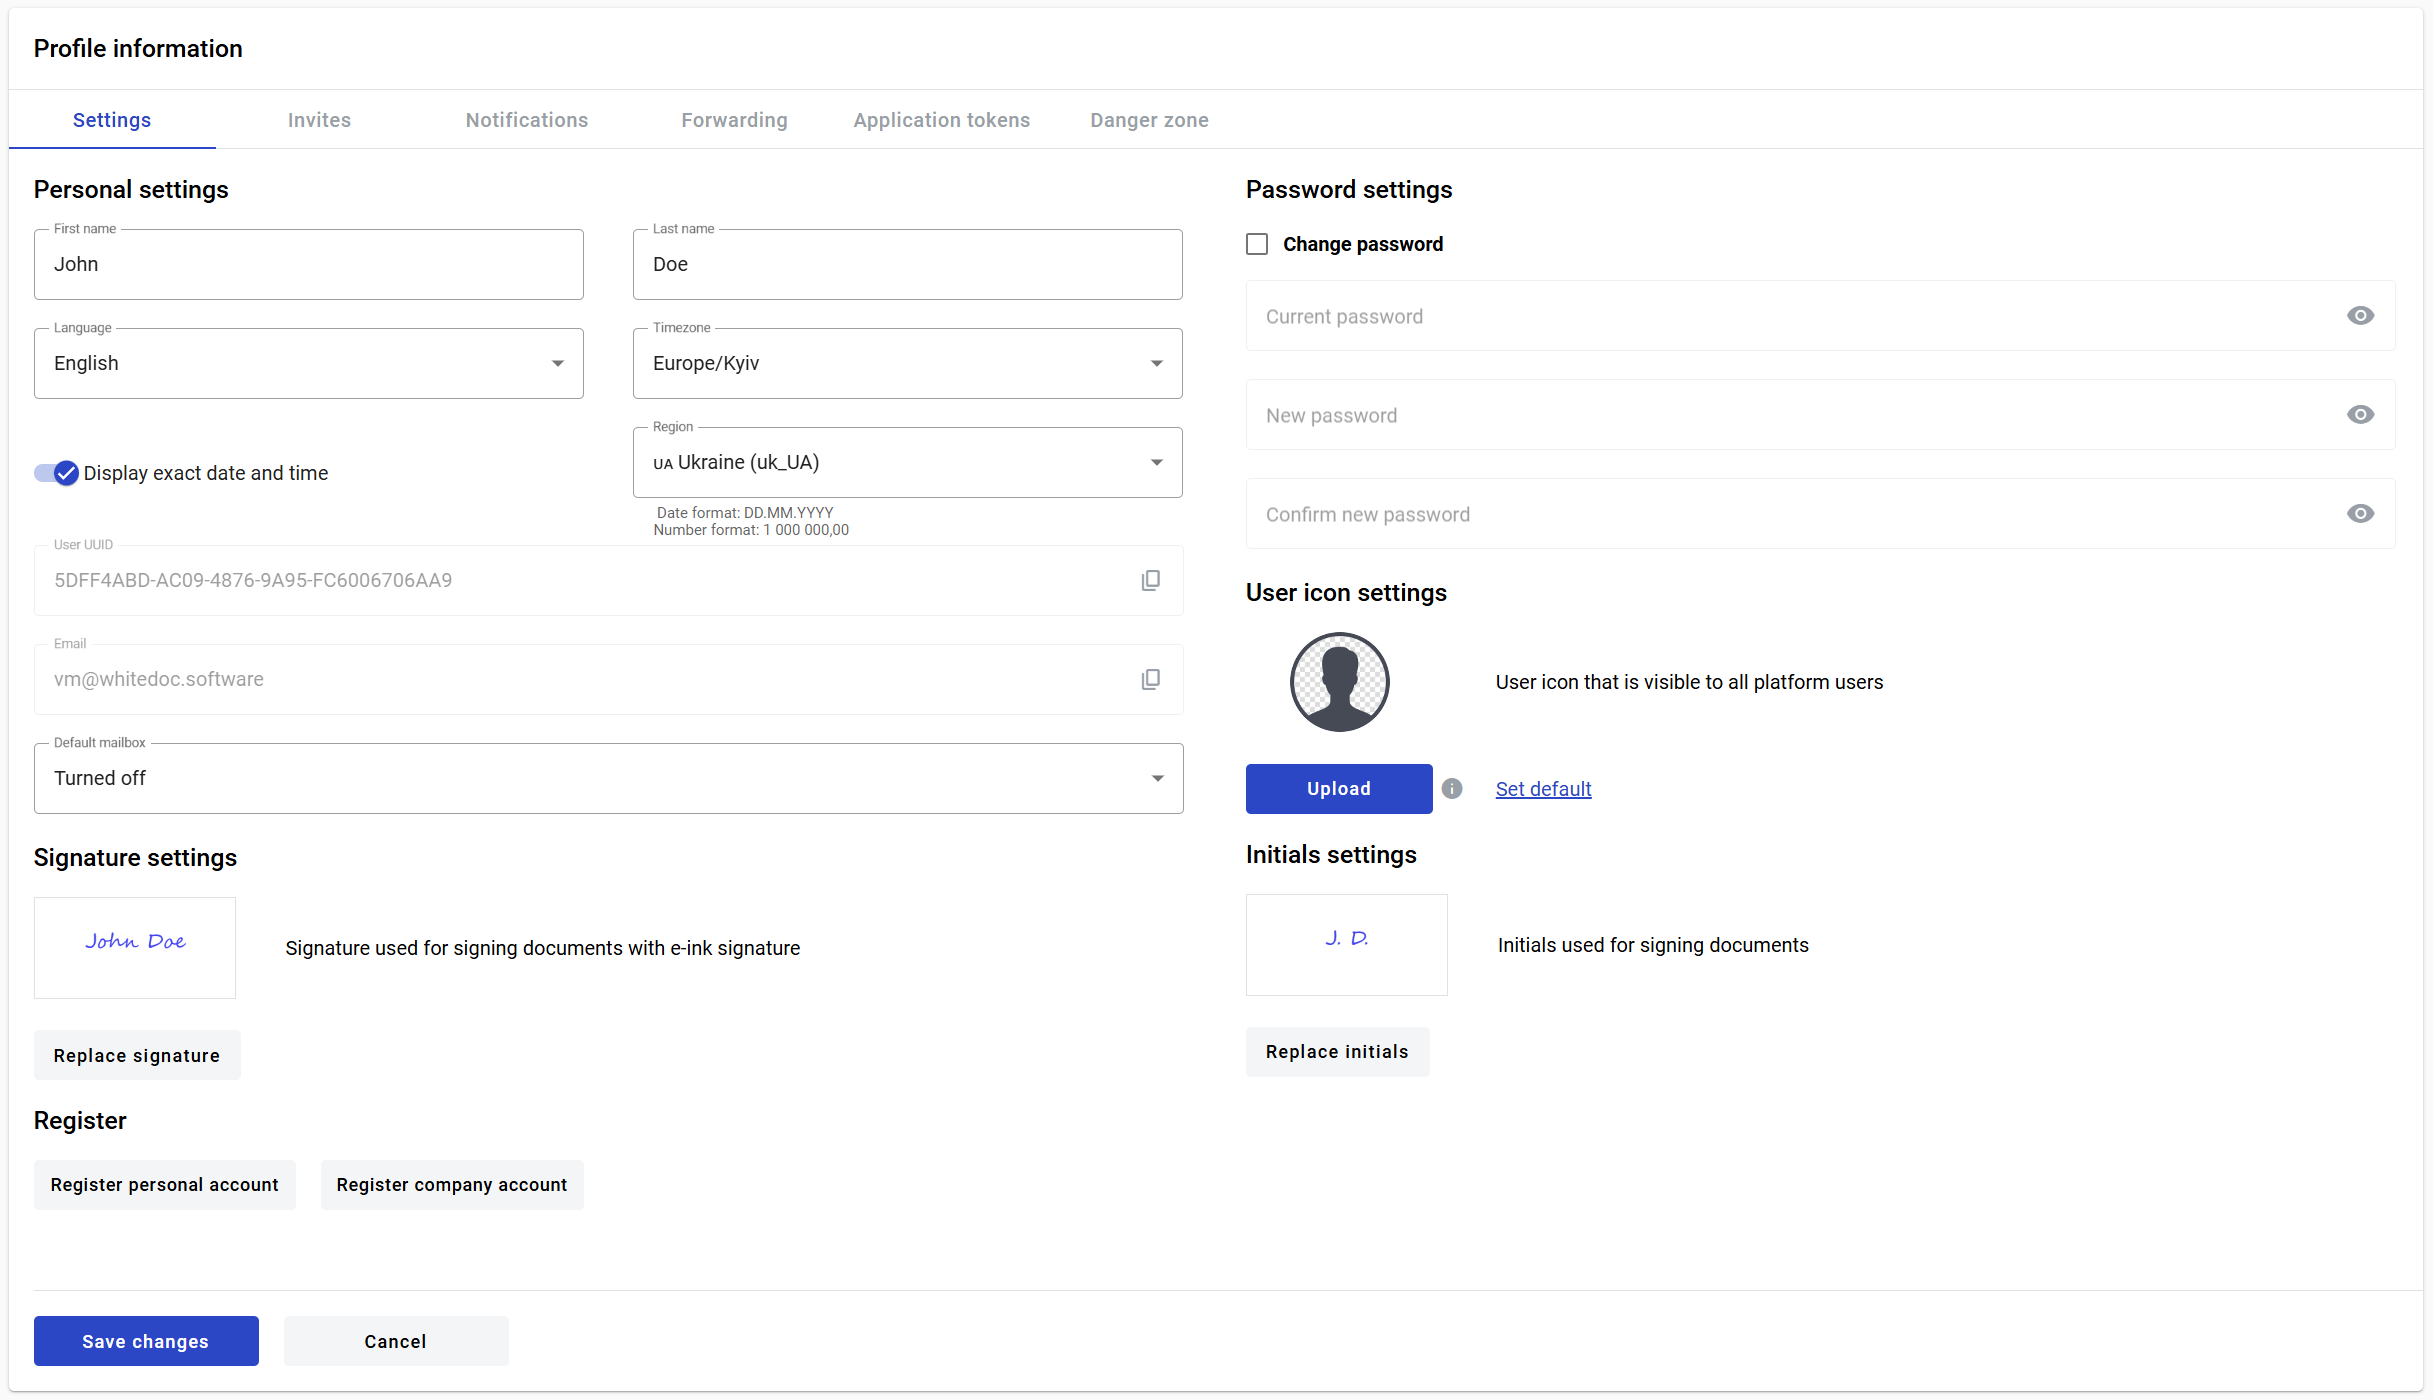
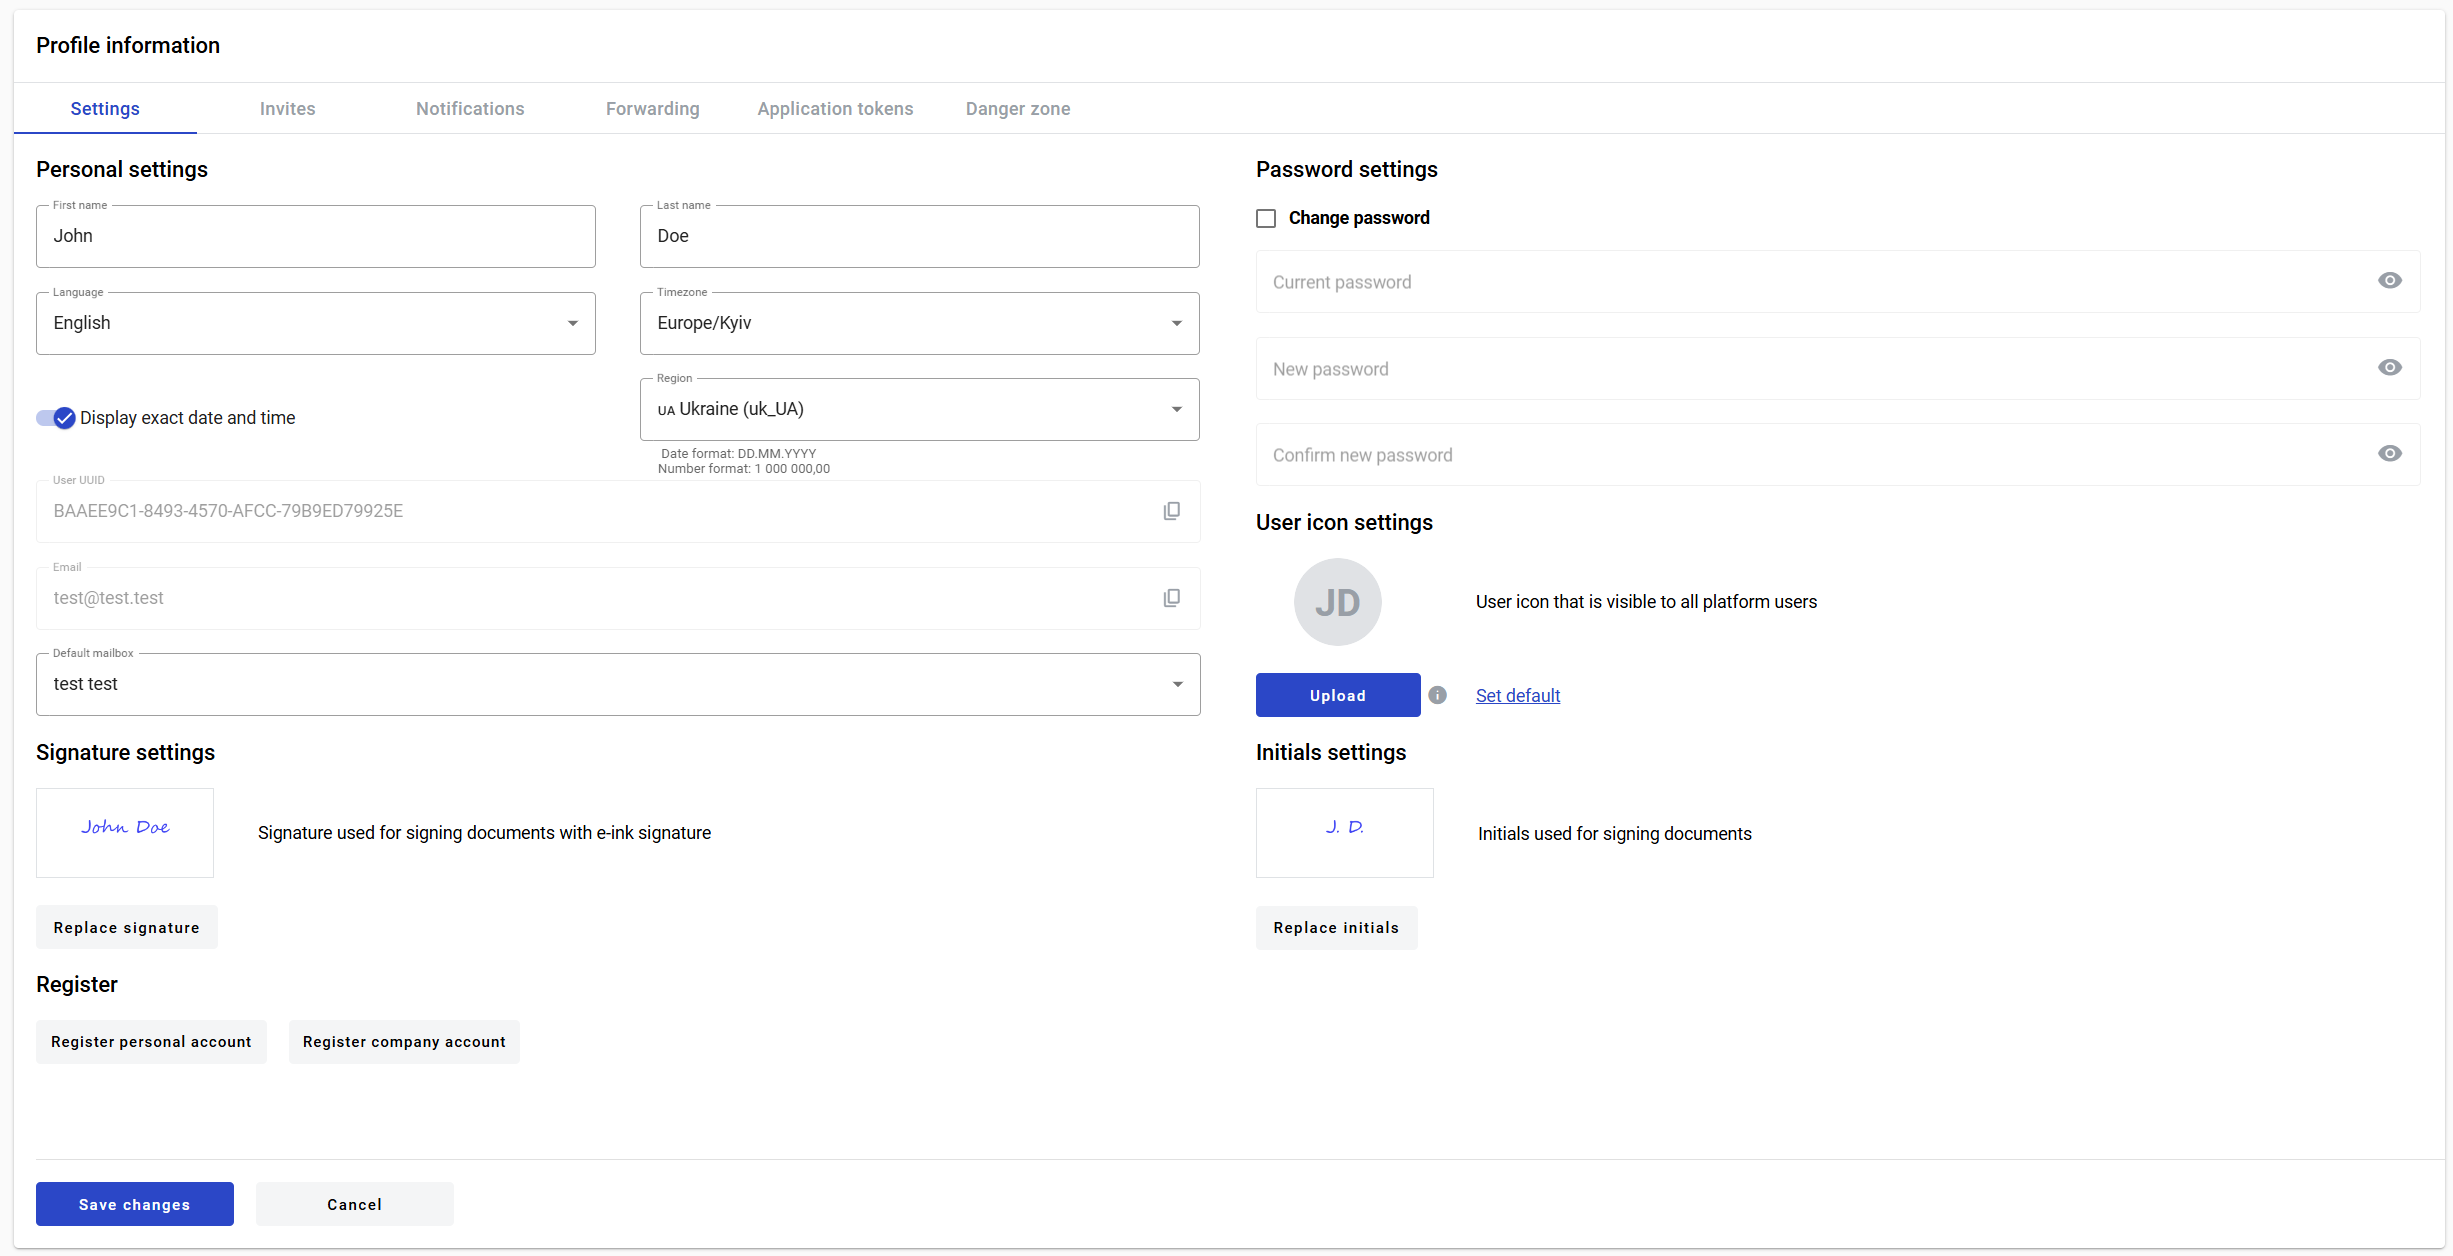
Invite tab info + profile settings upds and fixes (#283)

diff --git a/docs/source/pages/howToWorkWithPlatform/mainApplication/userProfile/userProfile.rst b/docs/source/pages/howToWorkWithPlatform/mainApplication/userProfile/userProfile.rst
@@ -8,6 +8,8 @@ This page allows you to edit various settings of your user profile. To open user
 Settings page
 =============
 
+This tab contains general user profile details and info.
+
 .. image:: pic_userprofile/tabSettings.png
    :width: 900
    :align: center
@@ -26,29 +28,43 @@ Settings page
 12. Register personal account
 13. Register company account
 
-Do not forget to click on Save changes button after editing anything on this page
+Do not forget to click the "Save changes" button after editing anything on this page.
 
-How to creating an e-ink signature?
-===================================
+How to create your signature?
+=============================
 
 1. Go to user profile page
-2. Click on Replace signature button
+2. Click the "Add signature" button (or "Replace signature" if you wish to change already existing signature)
 
 .. image:: pic_userprofile/signatureModal.png
    :width: 600
    :align: center
 
-3. Draw your signature in opened window
-4. Alternatively, text can be used as signature
-5. Click on Save changes button on the account setting page
+3. Draw your signature in the opened window
+4. Alternatively, text can be used for signature
+5. Click the "Save changes" button on the account setting page
+
+How to create your initials?
+============================
+
+1. Go to user profile page
+2. Click the "Add initials" button (or "Replace initials" if you wish to change already existing initials)
+
+.. image:: pic_userprofile/initialsModal.png
+   :width: 600
+   :align: center
+
+3. Draw your initials in the opened window
+4. Alternatively, text can be used for initials
+5. Click on "Save changes" button on the account setting page
 
 How to create a personal account?
 =================================
 
-1. To register new personal account click on Register personal account button
+1. To register new personal account click the "Register personal account" button
 2. In opened window enter a name for the account
 3. Select checkbox "I agree with Terms and conditions and Privacy policy"
-4. Click on Create button (button will be enable when previous steps are done)
+4. Click the "Create" button (it will become active after previous steps are done)
 
 .. image:: pic_userprofile/createPersonalAccount.png
    :width: 600
@@ -57,10 +73,10 @@ How to create a personal account?
 How to create a company account?
 ================================
 
-1. To register new personal account click on Register company account button
+1. To register new personal account click the "Register company account" button
 2. In opened window enter a name, ITN and mailbox name for the account
 3. Select checkbox "I agree with Terms and conditions and Privacy policy"
-4. Click on Create button (button will be enable when previous steps are done)
+4. Click the "Create" button (it will become active after previous steps are done)
 
 .. image:: pic_userprofile/createCompanyAccount.png
    :width: 600
@@ -77,24 +93,37 @@ How to update your password?
 2. Enter current password
 3. Enter new password
 4. Confirm new password in second field
-5. Click on Save changes button
+5. Click the "Save changes" button
 
-How to uload user icon?
-=======================
+How to upload a user icon?
+==========================
 
 .. image:: pic_userprofile/userIconSettings.png
    :width: 600
    :align: center
 
-1. Click Upload button and select an image
+1. Click the "Upload" button and select an image
 2. To see allowed image formats and sizes hover over info icon
 
 .. image:: pic_userprofile/userIconValidation.png
    :width: 600
    :align: center
 
-3. Click Save changes button to apply new icon
-4. You can return default profile logo with Set default link
+3. Click the "Save changes" button to apply new icon
+4. You can return default profile logo with "Set default" link
+
+============
+Invites page
+============
+
+This tab allows you to manage pending and accepted invitations to accounts and mailboxes from other users.
+
+.. image:: pic_userprofile/tabInvites.png
+   :width: 900
+   :align: center
+
+1. In the "Pending invitation" sections you can see a list of invitations from other users. Each row represents an account where you are invited to (first column). Second column shows a list of account mailboxes where you are invited to. Each invitation can be accepted or declined.
+2. In the "Accepted invitation" sections you can see a list of already accepted invitations. Each row represents a mailbox (second column) where you are invited to. Accepted invitations are grouped by account (first column). Each mailbox where you accepted an invitation to can be left.
 
 ===============
 Forwarding page
@@ -102,53 +131,53 @@ Forwarding page
 
 .. note:: This functionality will be disabled if you do not have 2012 mailbox level permission (Delegate envelopes).
 
+This tab allows you to configure automatic forwarding of all incoming envelopes.
+
 .. image:: pic_userprofile/tabForwarding.png
    :width: 900
    :align: center
-
-In this section you can configure automatic forwarding of all incoming envelopes. To do so:
 
 1. Select a target mailbox which will be a delegate of yours
 2. Select effective from date - it will specify a start date of the forwarding period (can be left empty to start period immediately)
 3. Select effective until date - it will specify an end date of the forwarding period (can be left empty to make period indefinite)
 4. Enable "Active forwarding" toggle
-5. Click on "Save changes" button
+5. Click the "Save changes" button
 
-Forwarding is configured now. If you wish to disable it at some point later, you can disable "Active forwarding" toggle and click on "Save changes" button.
+Forwarding is configured now. If you wish to disable it at some point later, you can disable "Active forwarding" toggle and click the "Save changes" button.
 
 ================
 Danger zone page
 ================
 
-This page allows you to delete your user account. To open user profile page navigate to https://platform_address/profile?activeTab=dangerzone
+.. note:: Option to remove own user profile can be restricted by instance settings. Danger zone tab will not be shown on Profile information page if so.
+
+This tab allows you to delete your user profile.
 
 .. image:: pic_userprofile/tabDangerZone.png
    :width: 900
    :align: center
-	
-.. note:: Ability to remove own user profile can be restricted in instance settings. In such case there will be no Danger zone tab on Profile information page.
 
-After User profile deletion all Accounts with role "Account owner" will be deleted with all related data. User can keep all Accounts and all related data after User profile deletion.
+.. warning:: After User profile deletion all Accounts with role "Account owner" will be deleted with all related data. You can keep all accounts and related data by following the insctructions below.
 
-.. image:: pic_userprofile/deleteUserProfile.png
+.. image:: pic_userprofile/deleteUserModal.png
    :width: 600
    :align: center
 
-**Delete User profile with Accounts and all related data**
+**Delete user profile, accounts and all related data**
 
-1. Click on Delete (1) button
-2. Enter your e-Mail in upper case in the field (2) in the modal window which opens after click on Delete (1) button
-3. Click on Confirm (4) button
-4. After deletion of User profile you will be loged out and redirected to login page
+1. Click the "Delete" button
+2. Enter your email in upper case in the field in the modal window which opens after clicking thr "Delete" button
+3. Click the "Confirm" button
+4. After deletion of user profile you will be logged out and redirected to login page
 
-**Delete User profile while keeping Accounts and all related data**
+**Delete user profile, but keep accounts and all related data**
 
 1. Before deleting User profile you should assign a new account owner to all accounts where you have role Account owner role
-2. After that you should go to Danger zone tab in user profile page and click on Delete (1) button
-3. Enter your e-Mail in upper case to the field (2) in the modal window which opens after click on Delete (1) button
-4. Tick Keep Account and Mailboxes (3) checkbox
-5. Click on Confirm (4) button
-6. If all Accounts where you have Account owner role has other owners your profile will be deleted, you will be loged out and redirected to login page. Otherwise you will see an error message in the right corner of the page
+2. After that you should go to Danger zone tab in user profile page and click the "Delete" button
+3. Enter your email in upper case to the field in the modal window which opens after click the "Delete" button
+4. Check "Keep the account and mailboxes" checkbox
+5. Click the "Confirm" button
+6. If all accounts where you have the account owner role has other owners your profile will be deleted, you will be logged out and redirected to login page. Otherwise you will see an error message in the right corner of the page
 
 .. image:: pic_userprofile/errorKeepAccount.png
    :width: 600
@@ -157,9 +186,9 @@ After User profile deletion all Accounts with role "Account owner" will be delet
 What happens with user data after deleting a user profile?
 ==========================================================
 
-After User profile deletion next related data will be deleted as well:
+After user profile deletion next related data will be deleted as well:
 
-1. Accounts where user has role "Account owner"
+1. Accounts where user has "Account owner" role
 2. Mailboxes
 3. Templates
 4. Dictionaries
